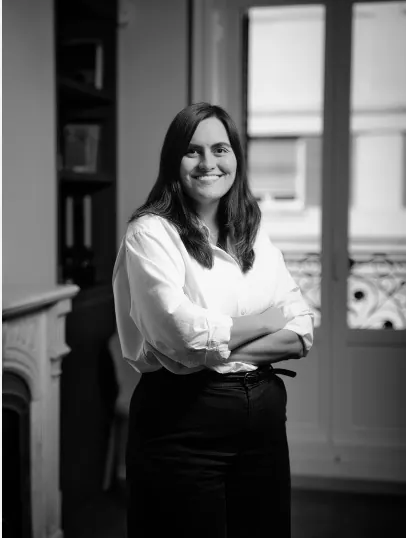
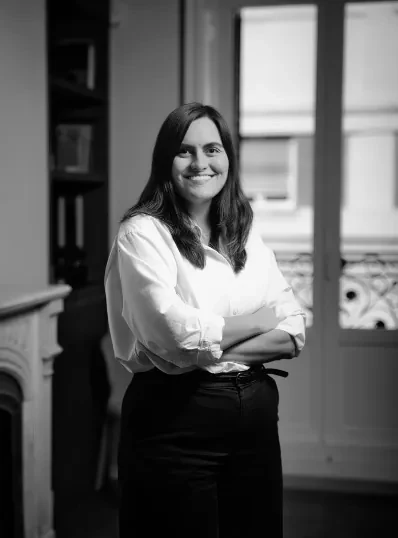
Propuestas web: Isla Creta · fotos del equipo sin el borde blanco

diff --git a/components/propuesta/isla-creta/PropuestaIslaCreta.tsx b/components/propuesta/isla-creta/PropuestaIslaCreta.tsx
@@ -373,7 +373,7 @@ const DIAPOS: Diapo[] = [
             <div key={p.img} className="r">
               <figure className="pic-marco">
                 {/* eslint-disable-next-line @next/next/no-img-element */}
-                <img src={`${A}/${p.img}.webp`} alt={p.nombre} />
+                <img src={`${A}/${p.img}.webp?v=2`} alt={p.nombre} />
               </figure>
               <strong>{p.nombre}</strong><span>{p.rol}</span>
             </div>
